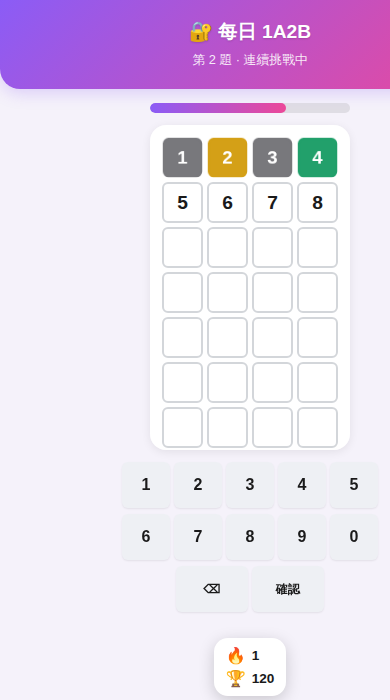
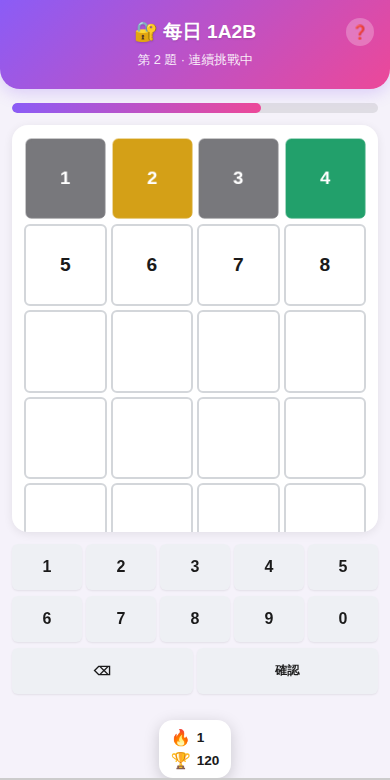
LIFF 格子與鍵盤改成填滿整個視窗寬度
原本 main/.grid/.timer-bar 都卡死 max-width（300/200/360px），
在較寬的手機上格子跟鍵盤按鍵看起來窄窄一條、兩側留白很多。改成
main 只設 max-width:480px 當上限（LIFF 也可能在 LINE 桌面版的大
視窗開啟，留一個防呆上限），.grid/.timer-bar 拿掉自己的 max-width
直接吃滿 main 寬度；鍵盤按鍵原本用固定 max-width 卡住，改成用
flex-grow 比例（一般鍵 1、寬鍵 1.6）自然按比例分掉整排寬度。
1A2B 格子高度會跟著變高，max-height 從 40vh 提到 50vh 讓捲動區
多顯示一點。

README 截圖重新產生以反映新版寬度。

Claude-Session: https://claude.ai/code/session_01GgMqWjnBkMzGz4ksjjvgum

diff --git a/liff/one-a-two-b/oneATwoB.css b/liff/one-a-two-b/oneATwoB.css
@@ -100,7 +100,7 @@ body {
 
 main {
   width: 100%;
-  max-width: 360px;
+  max-width: 480px;
   display: flex;
   flex-direction: column;
   align-items: center;
@@ -117,14 +117,13 @@ main {
   width: 100%;
 }
 
-/* 10 次機會、4 位數字，格子比 Wordle 更高、更窄——超出視窗高度時讓格子區自己捲動，
-   不要把整頁往下推、擠壓到鍵盤。 */
+/* 10 次機會、4 位數字，格子填滿整個寬度後每格會比 Wordle 更大——超出視窗高度時
+   讓格子區自己捲動，不要把整頁往下推、擠壓到鍵盤。 */
 .grid {
   grid-template-rows: repeat(10, 1fr);
   gap: 4px;
   width: 100%;
-  max-width: 200px;
-  max-height: 40vh;
+  max-height: 50vh;
   overflow-y: auto;
   padding: 12px;
   background: var(--surface);
@@ -231,7 +230,6 @@ main {
 .key {
   flex: 1;
   min-width: 0;
-  max-width: 48px;
   height: 46px;
   border: none;
   border-radius: 6px;
@@ -252,7 +250,7 @@ main {
 }
 
 .key.wide {
-  max-width: 72px;
+  flex: 1.6;
   font-size: 0.75rem;
 }
 
@@ -292,7 +290,6 @@ main {
 .timer-bar {
   position: relative;
   width: 100%;
-  max-width: 200px;
   height: 10px;
   background: rgba(128, 128, 128, 0.18);
   border-radius: 999px;

diff --git a/liff/wordle.css b/liff/wordle.css
@@ -100,7 +100,7 @@ body {
 
 main {
   width: 100%;
-  max-width: 360px;
+  max-width: 480px;
   display: flex;
   flex-direction: column;
   align-items: center;
@@ -121,7 +121,6 @@ main {
   grid-template-rows: repeat(6, 1fr);
   gap: 6px;
   width: 100%;
-  max-width: 300px;
   padding: 14px;
   background: var(--surface);
   border-radius: 16px;
@@ -228,7 +227,6 @@ main {
 .key {
   flex: 1;
   min-width: 0;
-  max-width: 34px;
   height: 44px;
   border: none;
   border-radius: 6px;
@@ -250,7 +248,7 @@ main {
 }
 
 .key.wide {
-  max-width: 56px;
+  flex: 1.6;
   font-size: 0.7rem;
 }
 
@@ -305,7 +303,6 @@ main {
 .timer-bar {
   position: relative;
   width: 100%;
-  max-width: 300px;
   height: 10px;
   background: rgba(128, 128, 128, 0.18);
   border-radius: 999px;
